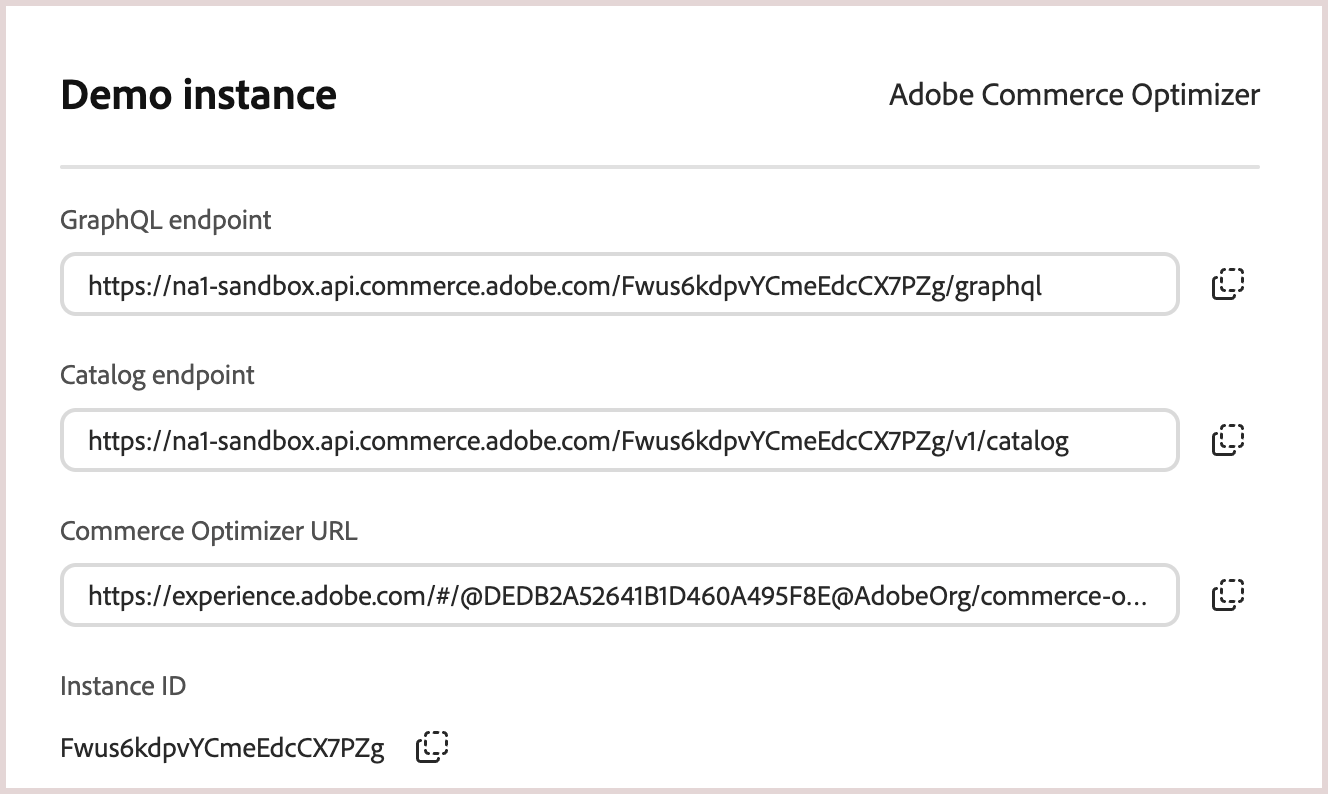
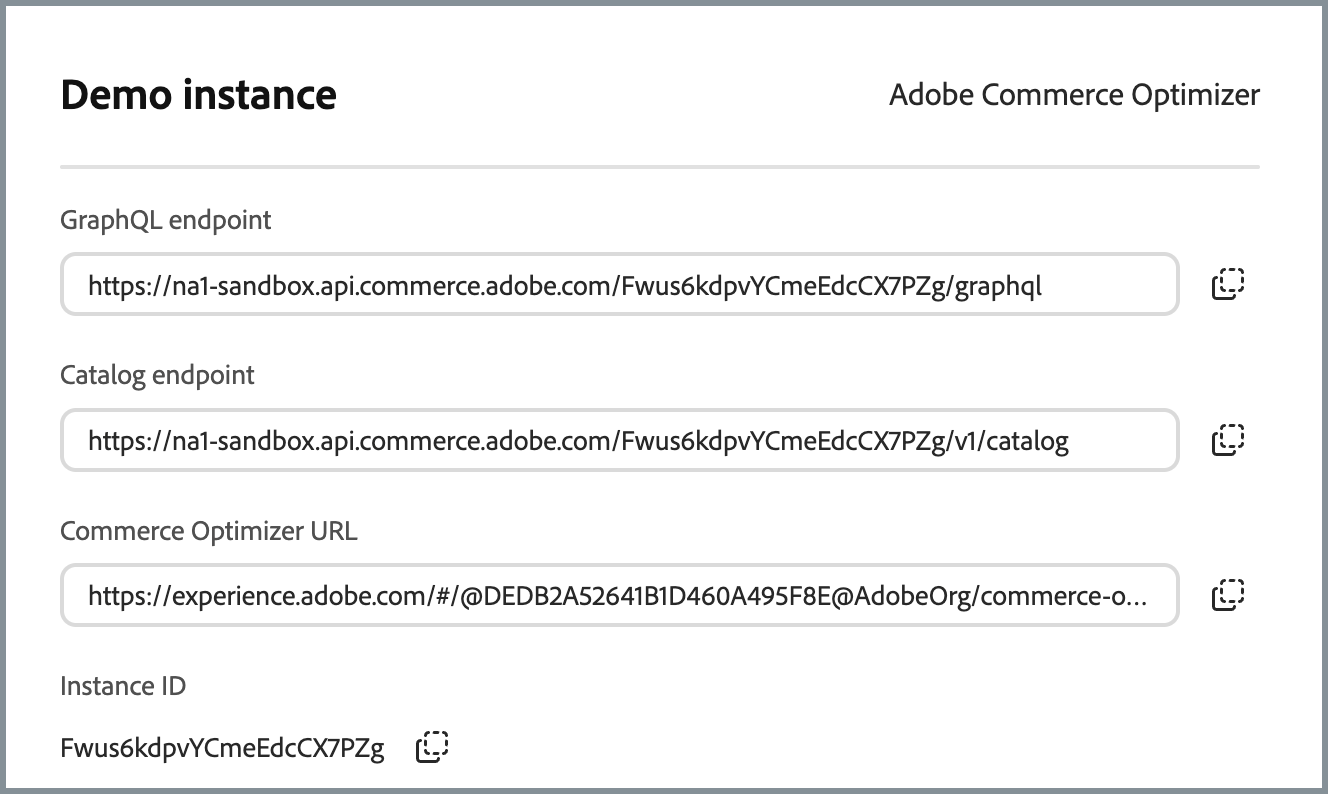
Improve screen caps

Changed region(s): [[0.0, 0.0, 1.0, 1.0]]

diff --git a/help/optimizer/get-started.md b/help/optimizer/get-started.md
@@ -57,10 +57,6 @@ After creating your instance:
 
 For testing and learning, follow the [Load Sample Data](#add-sample-data) instructions.
 
-### Step 4. Explore and use Adobe Commerce Optimizer
-
-See [Next steps](#next-steps).
-
 ## Role-Based workflows
 
 [!DNL Adobe Commerce Optimizer] setup and management rely on three key roles. Each role has specific tasks and responsibilities:
@@ -109,7 +105,7 @@ Merchandisers optimize and personalize the shopping experience through product d
 
    Click the instance name to open the [!DNL Adobe Commerce Optimizer] application.
 
-1. **Get instance details**:
+1. Get instance details:
    - Click the information icon next to your instance name.
    - Note the GraphQL endpoint, the Catalog Service endpoint for data ingestion, and the Instance ID (also known as the `tenant ID`).
 
@@ -119,15 +115,16 @@ Merchandisers optimize and personalize the shopping experience through product d
 
    Not all Adobe Commerce Optimizer users have access to Cloud Manager and the instance details. Access depends on the role and permissions assigned to the user account. If you do not have access, contact your organization administrator to get the instance details.
 
-1. **Edit instance name and description**:
-   - Click the **Edit** icon next to the instance name.
+1. Edit instance name and description:
+   - Click the **Edit** icon next to an instance name.
    - Update the name and description as needed.
    - Click **Save**.
+
+   You can also use the search and filter options to find specific instances quickly.
 
 ## Add sample data
 
 Adobe provides a GitHub repository with sample data and tools to help you learn and test [!DNL Adobe Commerce Optimizer] features.
-
 The sample data is based on the [Carvelo business scenario](./use-case/admin-use-case.md) and includes:
 
 - Product catalog with automotive parts
@@ -135,7 +132,7 @@ The sample data is based on the [Carvelo business scenario](./use-case/admin-use
 - Catalog views and policies for different dealers
 - Complete end-to-end workflow examples
 
-### Steps
+**Load the sample data**
 
 1. Access the GitHub repository:
    - Visit the [Sample Catalog Data Ingestion repository](https://github.com/adobe-commerce/aco-sample-catalog-data-ingestion)
@@ -153,19 +150,19 @@ The sample data is based on the [Carvelo business scenario](./use-case/admin-use
 
 After completing the setup:
 
-1. **Set up your storefront**:
+1. Set up your storefront:
    - Configure [Edge Delivery Services storefront](./storefront.md)
    - Connect to your catalog data
 
-1. **Explore the Carvelo use case**:
+1. Explore the Carvelo use case:
    - Follow the [end-to-end workflow](./use-case/admin-use-case.md)
    - Practice with real scenarios
 
-1. **Configure merchandising**:
+1. Configure merchandising:
    - Set up [product discovery](./merchandising/overview.md)
    - Create [recommendations](./merchandising/recommendations/overview.md)
 
-1. **Monitor performance**:
+1. Monitor performance:
    - Track [success metrics](./manage-results/success-metrics.md)
    - Analyze [search performance](./manage-results/search-performance.md)
 
